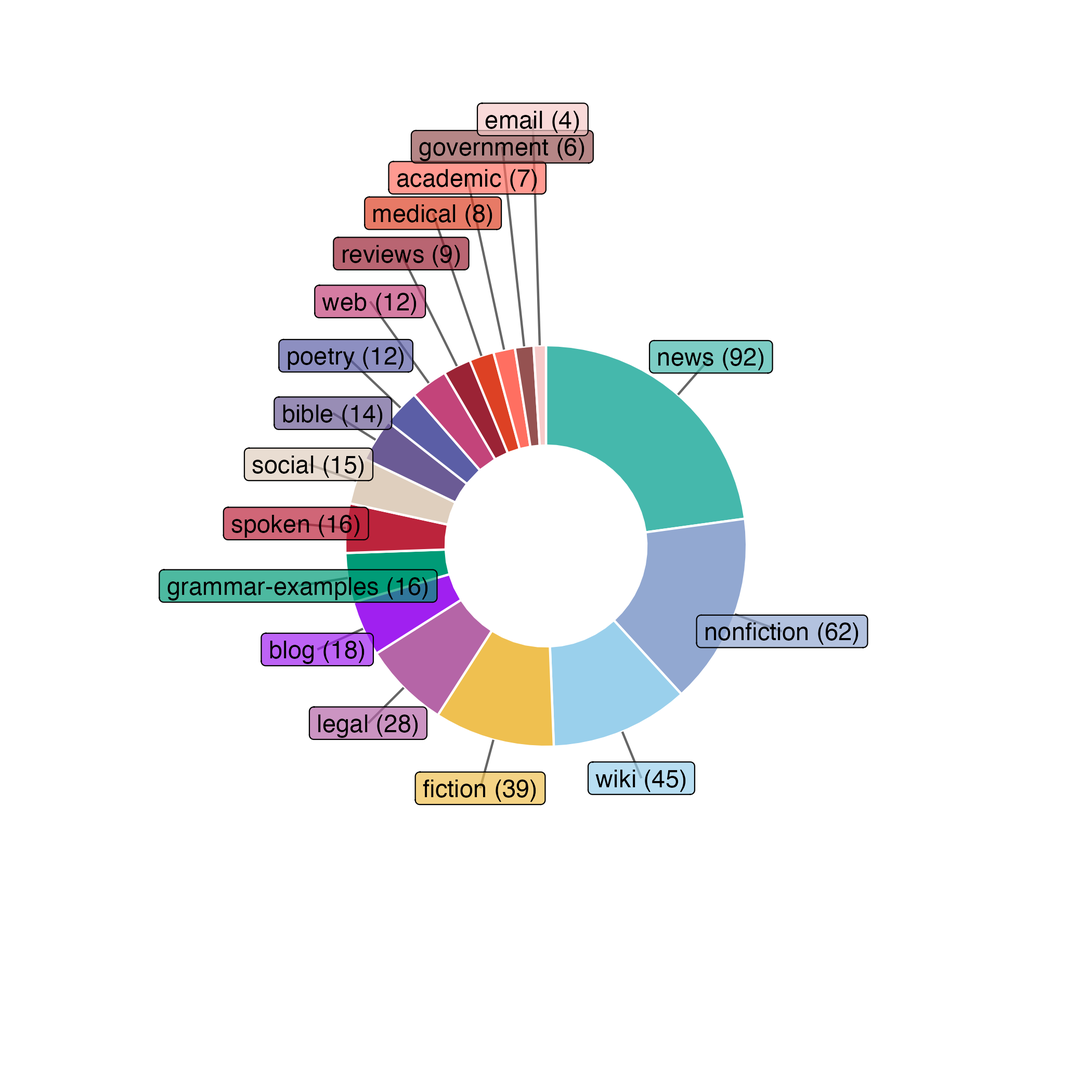
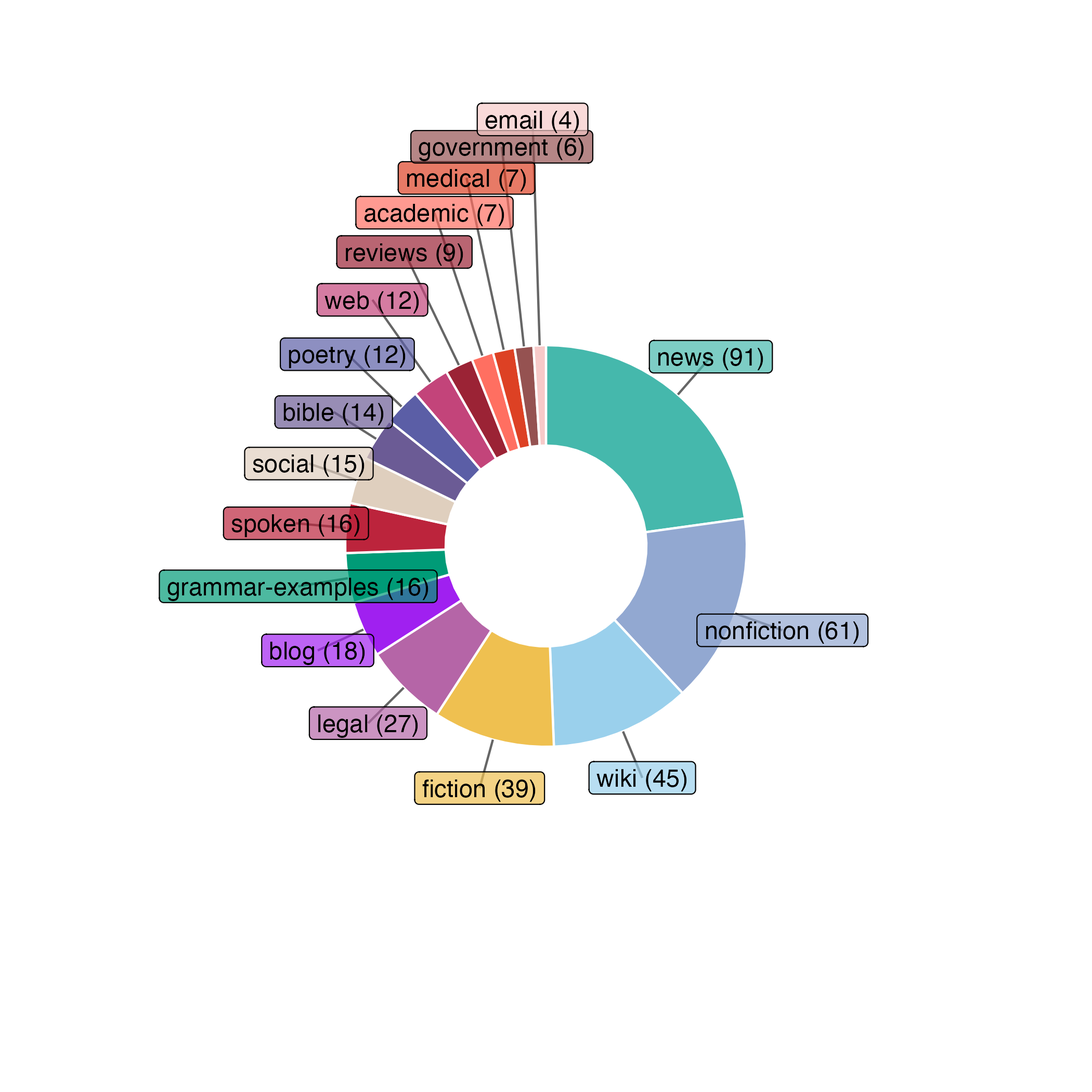
Updates from Overleaf

diff --git a/latex/main_new.tex b/latex/main_new.tex
@@ -288,7 +288,7 @@ Such distributional asymmetries suggest that usage-based measures provide a comp
 \section{Study outline}\label{sec:studyOutline}
 We aim to quantify one aspect of language complexity by studying how much information languages typically encode morphologically in usage.
 An increase in morphological information can be understood as an increase in the informational commitments made explicitly in grammatical form. %, and thus as an increase in one facet of language complexity in the sense of absolute complexity.
-Our metric, described in section \ref{ours_overview} and defined precisely in appendix \ref{sec:appendix_ours}, captures the amount of information carried by morphological features across approximately 70 languages spanning 158 datasets from the Universal Dependencies corpora collection v2.14 (UD) \citep{UD_2.14}.
+Our metric, described in section \ref{ours_overview} and defined precisely in appendix \ref{sec:appendix_ours}, captures the amount of information carried by morphological features across approximately 70 languages spanning 157 datasets from the Universal Dependencies corpora collection v2.14 (UD) \citep{UD_2.14}.
 %Annotated corpora yield a measure of morphological information per language, which serves as a proxy for speaker difficulty, which is one aspect of language complexity.
 
 %Words in any language can be grouped according to their lemma. 
@@ -657,7 +657,7 @@ We also compare to other metrics external to our study:
 
 
 \subsection{Comparison: Ç\&R's MFH and ours}
-
+\label{sec:CR_comparison}
 
 %An in-depth comparison of our metric with Ç\&R's MFH, including justifications for each aspect in which our measure differs from theirs, can be found in appendix 
 %\ref{sec:appendixComparison}.
@@ -759,7 +759,7 @@ The correlations are especially strong if we consider only the PUD-subset of UD 
 \end{figure}
 
 \FloatBarrier
-\noindent The two custom metrics that differ the most from each other in the comparison with all datasets are:
+\noindent The pair of custom metrics that differ the most from each other in the comparison with all datasets are\footnote{We note that there is another pair in the larger dataset (not PUD) that are as uncorrelated (0.85*): mean sum surprisal of features, aggregation = UPOS, core features vs mean sum surprisal of featstring, aggregation level = lemma, all features. As these pairs are very comparable and the pair discussed in the main text is also among the less correlated in the PUD dataset, we will focus on the other pair.}:
 \begin{itemize}
     \item Mean sum surprisal of features, aggregation level = UPOS, all features (Figure \ref{fig:map_sum_surprisal_morph_split_mean_upos_all_features})
     \item Mean sum surprisal of featstring, aggregation level = lemma, core features only (Figure \ref{fig:map_surprisal_per_morph_featstring_mean_lemma_core_features_only})
@@ -797,14 +797,19 @@ By contrast, UPOS-level aggregation pools across lemmas and preserves cross-lemm
 
 \FloatBarrier
 \subsection{Comparison with mean feature entropy}
-Ç\&R's MFH aggregates feature-value pairs in the entire dataset without regard to UPOS or lemma.
+\label{supplementary_section_comparison_MFH}
 An empirical comparison of the metric outcomes with our two representative metrics, absolute number of feature categories and Type-Token Ratio can be seen in Figure \ref{fig:SPLOM_metrics_external_CR}\footnote{Note that we implement Ç\&R's MFH slightly differently from the original version, see \ref{sec:appendix_ccoltekin} for more details.}.
-The correlations between our metrics and mean feature entropy are moderate to strong (>0.65).
-The first notable point of comparison is that mean feature entropy assigns zero to some datasets that our metrics assign appreciable values to.
-This is mainly due to differences in data-preprocessing (see appendix \ref{sec:appendixComparison}), here are several filters that Çöltekin \& Rama apply that we do not. 
-For example, tokens without morphological features, without lemmas and without a string for the token field are excluded from their analysis.
-We keep these in as they still contain morphological information, with certain thresholds and processing (see appendix \ref{sec:appendix_ours}). 
-This make a difference for example for isolating languages like Thai and Mandarin Chinese.
+The correlations between our metrics and mean feature entropy are moderate to strong (0.64*-0.82*).
+For further details of the conceptual differences between the metrics, see section \ref{sec:CR_comparison} and supplementary material \ref{sec:appendix_ccoltekin} and \ref{sec:appendixComparison}.
+
+Firstly, there were whole datasets and tokens within datasets for which it was not possible to assign a MFH-value but where we can assign morpho-surprisal values. 
+This is due to differences in data processing decisions, such as how to treat tokens with no morphological features or missing lemmas.
+For example, tokens without morphological features, without lemmas and/or without a string for the token field are excluded from their analysis.
+We keep these in as they still contain morphological information (see appendix \ref{sec:appendix_ours}). 
+This make a difference for example for isolating languages like Mandarin Chinese, as only tokens with morphology are taken into account for computing MFH.
+We can see the consequences of this if we compare Mandarin Chinese with Portuguese, which are commonly described as having little and moderate morphology respectively.
+If we rank UD-datsets by their MFH values, then Portuguese-PUD appears lower than Chinese-PUD (7 versus 9) - less information in the morphology. 
+This is not the case for our morpho-surprisal scores, where Chinese-PUD ranks lower than Portuguese-PUD as we would expect given common descriptions of their grammatical systems.
 Secondly, the first of our representative metrics (mean sum surprisal of features, aggregation level = UPOS, all features) assigns a wider range of values to the datasets, some of which are lower and some higher than mean feature entropy.
 This is because our UPOS-based measure covers a wider range of values than does mean feature entropy (see Figure \ref{fig:boxPlotsMetrics} in appendix \ref{subsec:appendixConsequences}), giving a more fine-grained measure of morphological complexity.
 For more information on the differences between our two approaches methodologically, see appendix \ref{sec:appendixComparison}.
@@ -832,8 +837,7 @@ We also include TTR and number of feature categories.
 The correlations between our metrics and the Grambank metrics are not significant(Figure \ref{fig:SPLOM_metrics_external_grambank_all}).
 %Only with the PUD datasets do we see a strong correlation, between one of our representative custom metrics and the Grambank Fusion measure, though these are generated by a relatively small sample of only 16 datasets (Figure \ref{fig:SPLOM_metrics_external_grambank_PUD}).
 %Furthermore, when we control for multiple comparisons (Table \ref{tab:p_values_adjusted_grambank}, appendix \ref{subsec:adjustedPValues}) all significant relationships disappear.
-
-We note also that Ç\&R's MFH also does not correlate significnatly with either of the two Grambank metrics.
+We note also that Ç\&R's MFH also does not correlate significantly with either of the two Grambank metrics.
 
 This lack of correlation highlights the distinctiveness of corpus-based analyses of complexity: insofar as our range of metrics captures something real, it appears to be something that shows up in feature frequencies, rather than the rules describing the possibility space of a language's grammar.
 %The facets of language complexity discussed earlier are sensitive not just to grammar but to usage, indicating the relevance of corpora for quantifying complexity.
@@ -849,6 +853,78 @@ This lack of correlation highlights the distinctiveness of corpus-based analyses
     \caption{Comparison with Grambank metrics (UD-dataset metrics averaged over language.}
     \label{fig:SPLOM_metrics_external_grambank}
 \end{figure}
+
+
+\FloatBarrier
+\section{Limitations}\label{sec:limitations}
+
+\subsection{Dummy feature assignment at the UPOS level}
+
+In order to account for the fact that a lack of marking can carry morphological information, we assign `dummy' features to tokens based on certain rules.
+Unfortunately, when aggregating at the UPOS level this can lead to dummy features being assigned to tokens that intuitively ought not receive them.
+That's because UPOS is a broad church: different subgroups of token within the same part-of-speech may be associated with very different features.
+In such a case we would assign to all members of one subgroup dummy values of features that belong properly to another.
+
+For example, tokens of the lemma `the' in the corpus UD\_English-GENTLE when processed at aggregation level UPOS for core features only get the following feature values:
+
+\begin{itemize}
+    \item Definite=Def
+    \item Degree=unassigned
+    \item Number=unassigned
+    \item Polarity=unassigned
+    \item PronType=Art
+\end{itemize}
+
+`Def' and `Art' mark `the' as the definite article.
+But it intuitively makes no sense to describe `the' as carrying information about, say, Polarity.
+The token receives this dummy feature because another token of the same UPOS -- in this case, `no' -- has a determinate value for Polarity -- in this case, `Neg'.
+Since some determiners are explicitly marked for polarity and others aren't, in order to quantify the amount of information conveyed about polarity on encountering a determiner we must capture the distinction with this unassigned dummy feature.
+
+The good news is that the information quantity contributed to `the' by Polarity is very small.
+Vastly more determiners have `unassigned' than `Neg' for Polarity (1165 vs 35).
+All these non-marking determiners therefore see a very small informational contribution: it's unsurprising when you encounter a determiner without Polarity.
+And when `no' is encountered, the negative Polarity is much more surprising and contributes more significantly to that token's information quantity.
+It might be objected that the negativity conveyed by the token `no' is in the semantics rather than morphologically, and thus our metric is assigning information to morphology what properly belongs to the bare meaning of the word.
+Insofar as this is true, it is a question of the tagging conventions being enforced more rigorously.
+Polarity is listed as an `Inflectional feature' in the UD documentation.
+If it is being used to flag semantic information, we would consider that an incorrect usage of the field.
+We have made no attempt to correct what might be seen as mistakes in the treebanks themselves: we have only established a workflow designed to use correctly formatted treebanks to estimate morphological information quantities.
+Errors or infelicities in the data should be fixed upstream, not in our workflow itself.
+
+Given the foregoing considerations, one might think that UPOS is too high a level at which to aggregate.
+Fortunately, some treebanks offer a more fine-grained categorisation of tokens between the level of lemma and UPOS.
+Some corpora use the XPOS field to record more fine-grained classifications of part-of-speech. 
+UD\_English-GENTLE seems to do it; though the documentation doesn't say exactly what guidelines they followed, it appears similar to that of UD\_English-ESLSpok whose documentation explicitly cites the Penn Treebank Tagset guidelines.
+Aggregating at XPOS would ameliorate some of the overeager dummy feature assignment that happens at the UPOS level.
+However, it wouldn't change the result of the example we've just looked at.
+Both `no' and `the' get an XPOS of DT in UD\_English-GENTLE, so they would still receive each other's features as dummy values when aggregating at that level.
+Furthermore, not all treebanks use the XPOS option, and those that do don't all use it in the same way.
+So this potential improvement would have to be looked at carefully in future developments of the current metric.
+
+\begin{itemize}
+    \item (Do we have an idea how many of our corpora this would work for?)
+\end{itemize}
+
+In sum, dummy feature assignment at the UPOS level can lead to unintuitive attribution of morphological features to tokens.
+Our basic position is that information can be carried by the absence of morphological marking, and that is what dummy assignment is designed to capture.
+Cases where this is not so might include semantic information being illicitly attributed to morphological features.
+This is a problem for the treebank maintainers, and not something to be fixed in our workflow.
+We take it on faith that the features intended to capture morphological aspects of tokens do so.
+A more fine-grained aggregation option exists at the XPOS level for some treebanks.
+We leave to future work the possibly of estimating morphological information when aggregating at this level.
+
+\subsection{Artificial lemmas}
+
+\begin{itemize}
+    \item Artificial lemmas (Rev ID 8): these would impact the lemma/token ratio in an undesirable way.
+\end{itemize}
+
+\subsection{Inconsistent annotation standards across corpora}
+
+\begin{itemize}
+    \item Aggregation across corpora with different annotation standards (Rev ID 15): negative affects the comparability of our metric because features may be annotated differently.
+    \item Emojis, percentages, etc.
+\end{itemize}
 
 \FloatBarrier
 \section{Discussion \& conclusion}\label{sec:discussion}
@@ -994,10 +1070,15 @@ This average is then an estimate of the `overall' entropy measure for the datase
 
 \paragraph{Implementation in this project}
 For comparison, we re-ran the code for Ç\&R's MFH on the same dataset as our analysis. 
-To make the outcomes more comparable, we introduced a modification of their procedure. 
-We did not do the bootstrapping sampling (sample sentences with replacement until you reach a given token target) - instead we ran the analysis on the exact same datasets as ours - i.e all tokens in the 173 UD datasets with more than 13,000 tokens (excluding tokens with UPOS PUNCT or X). 
-We copied the python scripts graciously provide by Çağrı Çöltekin and Taraka Rama at \href{https://github.com/coltekin/mcomplexity/}{https://github.com/coltekin/mcomplexity/}, made a few small modifications and incorporated the modified scripts into our project's codebase. 
-Removing bootstrapping also included removing the calling of sample\_nodes in get\_mfh, which had the consequence that some of the filtering in sample\_nodes happen in get\_mfh instead.
+To make the outcomes more comparable, we introduced a small set of modifications of their procedure. 
+We did not do the bootstrapping sampling (sample sentences with replacement until you reach a given token target) - instead we ran the analysis on the exact same datasets as ours - i.e all datasets in the 173 UD datasets with more than 13,000 tokens (excluding tokens with UPOS PUNCT or X). 
+Ç\&R MFH procedure was originally applied to a specific set of 63 UD datasets where the smallest number of tokens was approximately 40,000 \citet[32]{ccoltekin2023complexity}. 
+In this study, we work with a larger number of datasets where some have fewer tokens (>13,000).
+Note that the datasets serving as the input have more than 13,000 tokens, but filters in the Ç\&R-procedure eliminate further tokens.
+In three cases \footnote{English-GUMReddit, Thai-PUD and Faroese-FarPaHC} the datasets contained 0 tokens once the filters in Ç\&R's procedure were applied because the tokens lacked lemmas. 
+Technically the outcome for these three datasets would be a MFH value of 0, but we treated these instead as missing.
+We copied the python scripts graciously provide by Çağrı Çöltekin and Taraka Rama at \url{https://github.com/coltekin/mcomplexity/}, made a few small modifications and incorporated the modified scripts into our project's codebase. 
+Removing bootstrapping also included removing the calling of the function sample\_nodes in get\_mfh, which had the consequence that some of the filtering in sample\_nodes happen in get\_mfh instead.
 
 The python scripts that calculate Ç\&R's MFH take the same input as the R-scripts that calculate our metrics. 
 See Figure \ref{fig:data_processing_flowchart} for a schematic overview of the data flow.
@@ -1008,11 +1089,12 @@ The full procedure of our metric is as follows:
 \begin{enumerate}
 \item Exclude multilingual datasets
 \item Collapse the files of each UD dataset (e.g. dev, test and train) to one table with one token per row (including multiword-tokens, component word tokens and empty node tokens)
-\item Remove punctuation (UPOS=`PUNCT') and unanalysable tokens (UPOS=`X')\footnote{For more on UPOS X, please see \href{https://universaldependencies.org/u/pos/X.html}{https://universaldependencies.org/u/pos/X.html}}.
+\item Remove tokens that are punctuation (UPOS=`PUNCT') and unanalysable tokens (UPOS=`X')\footnote{For more on UPOS X, please see \url{https://universaldependencies.org/u/pos/X.html}}.
 \item Remove datasets with less than 13,000 tokens. 13,000 was chosen as a cut-off as this let us keep all PUD-datasets with more than 2 feature categories defined.
 \item Remove empty nodes. UD allows the insertion of tokens that are not present in the surface sentence in order to facilitate certain kinds of syntactic analysis. For example, the insertion of ``likes'' between ``Bill'' and ``tea'' in the sentence ``Sue likes coffee and Bill tea''. We drop these tokens from our analysis as we want to analyse the surface form as closely as possible. 
-%\footnote{For more details on empty nodes in UD, see \href{https://universaldependencies.org/format.html?utm_source=chatgpt.com#words-tokens-and-empty-nodes}{https://universaldependencies.org/format.html?utm_source=chatgpt.com#words-tokens-and-empty-nodes}}
-\item Resolve multi-word tokens. Some datasets will split tokens which are taken as representing multiple words into separate tokens. For example contractions such as: ``don't'' in English could be split into ``do'' and ``n't''. For UD-datasets, words that belong to a multi-word token (e.g. ``do'' and ``n't'') can be included as separate tokens and marked for syntactic dependencies, part-of-speech (UPOS), lemma and morphological features. The multiword also appears as a token, but without UPOS, lemma or morphological features. In this project, we want to analyse the surface forms - therefore we retain the multiword and remove the component words. We assign the multiwork token the morphological features and UPOS of the component words (e.g. "AUX\_PART). This may also be beneficial for comparability as multi-words may represent highly grammaticalised items that may be treated differently across datasets (sometimes split, sometimes not). By not analysing them further, we may be avoiding issues of uneven level of granularity of analysis.\footnote{For more details on multi-word tokens in UD, see UD documentation: \href{https://universaldependencies.org/format.html\#words-tokens-and-empty-nodes}{https://universaldependencies.org/format.html\#words-tokens-and-empty-nodes}.}
+\footnote{For more details on empty nodes in UD, see \url{https://universaldependencies.org/format.html}}
+\item Make all tokens lower-case
+\item Resolve multi-word tokens. Some datasets will split tokens which are taken as representing multiple syntactic words into separate tokens. For example contractions such as: ``don't'' in English could be split into ``do'' and ``n't''. For UD-datasets, words that belong to a multi-word token (e.g. ``do'' and ``n't'') can be included as separate tokens and marked for syntactic dependencies, part-of-speech (UPOS), lemma and morphological features. The multiword also appears as a token, but without UPOS, lemma or morphological features. In this project, we want to analyse the surface forms as they appear in writing/speech transcription - therefore we retain the multiword and remove the component syntactic words. We assign the multiwork token the morphological features and UPOS of the component words (e.g. "AUX\_PART). This may also be beneficial for comparability as multi-words may represent highly grammaticalised items that may be treated differently across datasets (sometimes split, sometimes not). By not analysing them further, we may be avoiding issues of uneven level of granularity of analysis.\footnote{For more details on multi-word tokens in UD, see UD documentation: \url{https://universaldependencies.org/format.html}.}
 \item Missing lemmas are replaced by the token.  There is variation in how datasets of UD treat certain tokens in terms of defining or not defining a lemma. For example, many proper nouns (PROPN) or adpositions (ADP) will lack a lemma annotation. Some datasets, like Arabic-NYUAD, leave the lemma field empty for most tokens where UPOS is ADP or PROPN. Conversely, in Greek-GUD all items of the same UPOS values have a defined lemma (majority of the time identical to the token). To normalise for our comparison, we replace missing lemmas with the content in the token field.
 \item Define lemmas as a combination of lemma + UPOS, to ensure that lemmas that are spelled the same but belong to different UPOS can be reliably distinguished. \textit{Example:} the noun ``mark'' and the verb ``mark'' in English-PUD are both annotated as belonging to the lemma ``mark''. By combinig lemma with UPOS, we can distinguish these as ``mark\_NOUN'' and ``mark\_VERB''.
 \item Split the tokens' morphological features into a list (e.g. Table \ref{tab:unassigned_ex_SPLIT} in appendix lists the individual features for the sample shown in Table \ref{tab:unassigned_ex})\footnote{Some tokens have been given more than one feature value for the same feature category. This is allowable within the UD-framework, though the coordinators note that such multi-values should be used sparingly. For example, the adjective ``{\dolousfont ἀ}{\Timesfont όρατος}'' in the Ancient Greek PTNK-dataset is assigned ``Gender=Fem,Masc''. We are treating instances like these as a case of the feature value being ``Fem,Masc'' and not a case of both ``Gender=Fem'' and ``Gender=Masc''.}
@@ -1026,8 +1108,8 @@ The full procedure of our metric is as follows:
 \item Calculate the total `surprisal of a token' by summing the surprisals of all its features (including ``dummy'' features)
 \item Mean surprisal per token is the average of this total across all tokens in the dataset.
 \item Calculate other relevant counts, such as number of feature categories in total for the dataset, TTR etc.
-\item Remove datasets where there are 2 or fewer feature categories defined (in total) as these appear not representative of the languages.
-\item If there are 2 or fewer unique types in the dataset, set TTR, LTR, surprisal per token and number of types to missing as these appear not representative of the languages. \footnote{There are four datasets included in our study that do not contain regular tokens. They are: Arabic-NYUAD, English-GUMReddit, Japanese-BCCWJ and
+\item Remove datasets where there are 2 or fewer feature categories defined (in total) as these appear not representative of the languages. \footnote{As this step happens later on in the workflow, this set includes the feature category ``unassigned'' but Abbr, Typo and Foreign are excluded. All but one of the 14 datasets that are excluded here only contain ``unassigned'', Abbr, Typo and Foreign as feature categories. The exception is Galician-CTG which contains the feature category ``Polarity'' for 120 tokens.}
+\item If there are 2 or fewer unique types in the dataset, set TTR, LTR, surprisal per token and number of types to missing as these appear not representative of the languages. \footnote{There are four datasets included in our study that do not contain regular tokens and more than 13,000 tokens. They are: Arabic-NYUAD, English-GUMReddit, Japanese-BCCWJ and
 Japanese-BCCWJLUW. The tokens are annotated for dependencies and features, but the tokens themselves are missing or very irregular (types >=2). The lemma annotation is also irregular.} 
 % \item Calculate the mean surprisal in the dataset by summing the surprisals and dividing by the number of tokens.
 \end{enumerate}
@@ -1172,23 +1254,27 @@ The formula describing our measure is therefore $\Sigma_i p_i \left( \Sigma_{j_i
 However, some tokens have missing lemma because their lemma is understood to be identical to the token or for other reasons specific to the dataset (e.g. lemmatization efforts focussed on content words)  
 For example, this is most likely the case in many instances in Arabic-NYUAD where the lemma field is empty for most tokens where the part-of-speech is adposition (ADP) or proper names (PROPN). 
 Conversely, in Greek-GUD all items of the same UPOS values have a defined lemma (majority of the time identical to the token). 
-We treat tokens with missing lemmas as genuine tokens. 
-To make comparison possible, we replace missing lemmas with the content in the token field.
+In our analysis, we treat tokens with missing lemmas as genuine tokens. 
+We replace missing lemmas with the content in the token field in order to make it possible to include these in the analysis.
+There are three datasets \footnote{English-GUMReddit, Thai-PUD and Faroese-FarPaHC} which lack lemmas altogether. 
+For Ç\&R MFH-procedure, these tokens are all filtered out leaving 0 tokens and a MFH value of 0.
+We treated the MFH value for these three datasets as missing instead of as 0.
 
-There are also datasets with missing values for the actual token field, but where there is annotation for morphological features and other annotations. This is for example the case with the dataset discussed earlier; Arabic-NYUAD. 
-We believe these tokens still contain valuable information for the computation of morphological complexity and hence include them.
+There are also datasets with missing values for the actual token field, but where there is annotation for morphological features and other annotations. 
+This is for example the case with the dataset discussed earlier; Arabic-NYUAD. 
+We believe these datasets still contain valuable information for the computation of morphological complexity and hence include them.
 We do however exclude them from some analysis, such as TTR.
-If tokens \emph{and} lemmas are both missing then the lemma category becomes just the UPOS (because we merge lemmas with UPOS, for example to disinguish between mark (VERB) and mark (NOUN); eg. `\_VERB'.
+If tokens \emph{and} lemmas are both missing then the lemma category becomes just the UPOS (because we merge lemmas with UPOS, for example to distinguish between mark (VERB) and mark (NOUN); eg. `\_VERB'.
 Thankfully, this only occurs for three datasets: English-GUMReddit, Japanese-BCCWJ and Japanese-BCCWJLUW. The Japanese datasets are excluded from further analysis regardless because of suspiciously low number of feature categories marked.
 For English-GUMReddit, aggregation level UPOS / lemma amounts to the same.
 
 Lastly, tokens which lack morphological features totally are implicitly left out of the analysis of Ç\&R.
-After assigning ``dummy'' feature values  (e.g. `NumType=unassigned') given features of other tokens in the same UPOS/lemma, we insert a ``dummy'' feature (`unassigned=unassigned') for tokens that still lack features.
+However, for our metric, after assigning ``dummy'' feature values  (e.g. `NumType=unassigned') given features of other tokens in the same UPOS/lemma, we insert a ``dummy'' feature (`unassigned=unassigned') for tokens that still lack features.
 This makes it possible for those tokens to still be included when calculating averages.
 This is particularly the case for isolating languages.
-For example, in Chinese-GSD 18\% of tokens are marked with the feature unassigned=unassigned (aggregation level = UPOS).
+For example, in Chinese-GSD 18\% of tokens are marked with the feature unassigned=unassigned in our procedure (aggregation level = UPOS).
 
-As a result of these data processing decisions, there are datasets for which Ç\&R's morphological feature entropy is calculated as zero but which have appreciable complexity by our metric. 
+As a result of these and other data processing decisions, there are datasets for which Ç\&R's morphological feature entropy-procedure cannot be applied at all or cannot be applied to all tokens in the dataset but where our approach functions. 
 %Examples of these are EXAMPLES, as can be seen in the results SPLOMS (REF TO FIGURES).
 
 \subsection{Ç\&R remove certain numerals; we don't} \label{appedix:differences_remove_numerals}
@@ -1449,8 +1535,8 @@ Another comparability issue is related to \textbf{genre}, as the datasets of UD 
 For example, Beja-NSC is based on linguistic fieldworker Martine Vanhove's corpus which features transcribed spoken stories, whereas the UD dataset Czech-Poetry contains, as the name suggests, samples of Czech 19th-century poetry. 
 Ukrainian-ID consists of, as many datasets in UD do, a blend of fiction, news, opinion pieces, Wikipedia articles, legal documents, letters, posts and comments. 
 We may expect that genre affects the structure and lexicon of the datasets, with poems exhibiting more experimental word order and legal documents more technical jargon. 
-Figure \ref{fig:genre_doughnut} shows a frequency doughnut-plot of genre tags for the 158 datasets included in this study.
-``News'' is the most common genre tag (n=102), with nonfiction coming second (n=66).
+Figure \ref{fig:genre_doughnut} shows a frequency doughnut-plot of genre tags for the 157 datasets included in this study.
+``News'' is the most common genre tag (n=91), with nonfiction coming second (n=61).
 
 \begin{figure}
     \centering
@@ -1510,11 +1596,23 @@ Table \ref{r_package_table} shows all R-packages used and their versions. The li
 \input{used_packages_table.tex}
 
 \section{Notes on Spearman rank correlation tests}\label{appendix:spearman}
-The Spearman correlation test evaluates the strength and significance of the relationship between the rank of two variables
+\label{appendix:rank}
+The Spearman correlation test evaluates the strength and significance of the relationship between the rank of two variables. 
+Fig \ref{fig:rank_heat_plot} shows the rank of different dataset for the relevant variables\footnote{Note that for the Fusion and Informativity metric, the values are tied to glottocodes rather than UD-dataset. For this figure, if there is more than one dataset per glottocode the values are duplciated. For the correlation tests, we normalise to glottocodes when comparing to the Grambank metrics.}.
+For a larger version of the figure, see the accompanying code and data.
 The strength is expressed by a coefficient whose value lies between -1 (indicating negative correlation) and 1 (positive correlation). 
 An absolute value of 1 indicates a perfect relationship in which the two variables are fully matched. 
-Significance is measured via traditional p-values.
-For some of our variables, there were values tied at the same rank. This makes it impossible to calculate  exact p-values for Spearman's rank correlation coefficient in the same way as when there are no ties. In such cases, we use asymptotic $t$ approximation as implemented in the base R-package stat's function cor.test(method = ``spearman'', exact = FALSE).
+Significance is measured via traditional p-values, using 0.05 as a cut-off.
+For some of our variables, there were values tied at the same rank. 
+This makes it impossible to calculate  exact p-values for Spearman's rank correlation coefficient in the same way as when there are no ties. 
+In such cases, we use asymptotic $t$ approximation as implemented in the base R-package stat's function cor.test(method = ``spearman'', exact = FALSE).
+
+\begin{figure}
+    \centering
+    \includegraphics[width=0.50\linewidth]{latex/graphics/rank_heat_plot.png}
+    \caption{Rank and values for our two representative morpho-surprisal metrics, MFH, Fusion and Informativity. The datasets are sorted by the first morpho-surprisal metric.}
+    \label{fig:rank_heat_plot}
+\end{figure}
 
 %\section{Further figures and #tables}\label{sec:appendixFurtherFigures}
 
@@ -1522,9 +1620,9 @@ For some of our variables, there were values tied at the same rank. This makes i
 \FloatBarrier
 \section{Adjusted p-values for multiple comparisons}\label{subsec:adjustedPValues}
 To address potential multiple-comparisons concerns, we adjust p-values using the Holm–Bonferroni method \citep{holm_simple_1979} for correlation tests involving external complexity measures, specifically in Figures \ref{fig:SPLOM_metrics_external_CR} (comparisons with Ç\&R’s MFH) and \ref{fig:SPLOM_metrics_external_grambank} (comparisons with Grambank Fusion and Informativity).
-Many other correlation tests in this study are descriptive in nature and/or concern variables that are closely related by construction, for example different variants of the same morphosurprisal metric (UPOS/lemma, core/ all features, feat/featstring). 
+Many other correlation tests in this study are descriptive in nature and/or concern variables that are closely related by construction, for example different variants of the same morpho-surprisal metric (UPOS/lemma, core/ all features, feat/featstring). 
 In such cases, the correlations serve to assess internal coherence and contextualise the measures rather than to test independent hypotheses, and concerns about multiple comparisons are therefore less relevant.
-For this reason, we do not adjust p-values for correlations between different variants of morphosurprisal, nor for descriptive correlations reported in Figures \ref{fig:SPLOM_metrics_other} and \ref{fig:SPLOM_metrics_other_PUD}. 
+For this reason, we do not adjust p-values for correlations between different variants of morpho-surprisal, nor for descriptive correlations reported in Figures \ref{fig:SPLOM_metrics_other} and \ref{fig:SPLOM_metrics_other_PUD}. 
 In contrast, p-value adjustment is applied to correlations involving external or theoretically distinct measures—including Ç\&R’s MFH, Grambank metrics and corpus-level statistics such as TTR, and number of feature categories—where the interpretation of individual significance tests would otherwise be more prone to multiple-comparisons concerns.
 
 \begin{table}[ht]
@@ -1535,14 +1633,14 @@ In contrast, p-value adjustment is applied to correlations involving external or
 \toprule
 	\textbf{Correlate 1}	&	\textbf{Correlate 2}	& \textbf{p-value (unadjusted)}    &	\textbf{p-value (adjusted)}	\\
     \midrule
-morpho-surprisal /   feat /   UPOS /   all features	&	TTR	&	0.000004	&	0.000015	\\ \midrule
+morpho-surprisal /   feat /   UPOS /   all features	&	TTR	&	0.000005	&	0.000019	\\ \midrule
 morpho-surprisal /   feat /   UPOS /   all features	&	\# Feat cat /   all features	&	0.000000	&	0.000000	\\ \midrule
 morpho-surprisal /   feat /   UPOS /   all features	&	Ç\&R's MFH (slightly modified version)	&	0.000000	&	0.000000	\\ \midrule
-morpho-surprisal /   featstring  /    lemma /   core features only	&	TTR	&	0.092376	&	0.092376	\\ \midrule
+morpho-surprisal /   featstring  /    lemma /   core features only	&	TTR	&	0.103477	&	0.103477	\\ \midrule
 morpho-surprisal /   featstring  /    lemma /   core features only	&	\# Feat cat /   all features	&	0.000000	&	0.000000	\\ \midrule
 morpho-surprisal /   featstring  /    lemma /   core features only	&	Ç\&R's MFH (slightly modified version)	&	0.000000	&	0.000000	\\ \midrule
-TTR	&	\# Feat cat /   all features	&	0.009386	&	0.018772	\\ \midrule
-TTR	&	Ç\&R's MFH (slightly modified version)	&	0.002464	&	0.007393	\\ \bottomrule
+TTR	&	\# Feat cat /   all features	&	0.007944	&	0.015888	\\ \midrule
+TTR	&	Ç\&R's MFH (slightly modified version)	&	0.004723	&	0.014168	\\ \bottomrule
     
 \end{tabular}
 \end{table}
@@ -1556,14 +1654,14 @@ TTR	&	Ç\&R's MFH (slightly modified version)	&	0.002464	&	0.007393	\\ \bottomru
 \toprule
 	\textbf{Correlate 1}	&	\textbf{Correlate 2}	& \textbf{p-value (unadjusted)}    &	\textbf{p-value (adjusted)}	\\
     \midrule
-morpho-surprisal /   feat /   UPOS /   all features	&	TTR	&	0.0009436	&	0.0056614	\\ \midrule
-morpho-surprisal /   feat /   UPOS /   all features&	\# Feat cat /   all features	&	0.0058743	&	0.0293716	\\ \midrule
-morpho-surprisal /   feat /   UPOS /   all features	&	Ç\&R's MFH (slightly modified version)	&	0.0000038	&	0.0000302	\\ \midrule
-morpho-surprisal /   featstring  /    lemma /   core features only	&	TTR	&	0.0342273	&	0.0684545	\\ \midrule
-morpho-surprisal /   featstring  /    lemma /   core features only&	\# Feat cat /   all features	&	0.0117601	&	0.0352804	\\ \midrule
-morpho-surprisal /   featstring  /    lemma /   core features only	&	Ç\&R's MFH (slightly modified version)	&	0.0007564	&	0.0052948	\\ \midrule
-TTR&	\# Feat cat /   all features	&	0.1577710	&	0.1577710	\\ \midrule
-TTR	&	Ç\&R's MFH (slightly modified version)	&	0.0074797	&	0.0299186	\\ \bottomrule
+morpho-surprisal /   feat /   UPOS /   all features	&	TTR	&	0.000944	&	0.006605	\\ \midrule
+morpho-surprisal /   feat /   UPOS /   all features&	\# Feat cat /   all features	&	0.001600	&	0.009599	\\ \midrule
+morpho-surprisal /   feat /   UPOS /   all features	&	Ç\&R's MFH (slightly modified version)	&	0.000024	&	0.000192	\\ \midrule
+morpho-surprisal /   featstring  /    lemma /   core features only	&	TTR	&	0.034227	&	0.078336	\\ \midrule
+morpho-surprisal /   featstring  /    lemma /   core features only&	\# Feat cat /   all features	&	0.004494	&	0.017973	\\ \midrule
+morpho-surprisal /   featstring  /    lemma /   core features only	&	Ç\&R's MFH (slightly modified version)	&	0.003253	&	0.016263	\\ \midrule
+TTR&	\# Feat cat /   all features	&	0.107420	&	0.107420	\\ \midrule
+TTR	&	Ç\&R's MFH (slightly modified version)	&	0.026112	&	0.078336	\\ \bottomrule
 \end{tabular}
 \end{table}
 
@@ -1576,16 +1674,16 @@ TTR	&	Ç\&R's MFH (slightly modified version)	&	0.0074797	&	0.0299186	\\ \bottom
     \begin{tabular}{p{3.2cm}p{3.2cm}p{2.8cm}p{2.8cm}}
 \toprule
 	\textbf{Correlate 1}	&	\textbf{Correlate 2}	& \textbf{p-value (unadjusted)}    &	\textbf{p-value (adjusted)}	\\\midrule
-    morpho-surprisal /   feat /   UPOS /   all features	&	Fusion (Grambank)	&	0.0454018	&	0.4086164	\\ \midrule
-morpho-surprisal /   feat /   UPOS /   all features	&	Informativity (Grambank)	&	0.3051772	&	1.0000000	\\ \midrule
-morpho-surprisal /   featstring  /    lemma /   core features only	&	Fusion (Grambank)	&	0.0073515	&	0.0735151	\\ \midrule
-morpho-surprisal /   featstring  /    lemma /   core features only	&	Informativity (Grambank)	&	0.5046589	&	1.0000000	\\ \midrule
-TTR	&	Fusion (Grambank)	&	0.7356503	&	1.0000000	\\ \midrule
-TTR	&	Informativity (Grambank)	&	0.3208506	&	1.0000000	\\ \midrule
-\# Feat cat /   all features	&	Fusion (Grambank)	&	0.3713876	&	1.0000000	\\ \midrule
-\# Feat cat /   all features	&	Informativity (Grambank)	&	0.7600773	&	1.0000000	\\ \midrule
-Ç\&R's MFH (slightly modified version)	&	Fusion (Grambank)	&	0.0510221	&	0.4086164	\\ \midrule
-Ç\&R's MFH (slightly modified version)	&	Informativity (Grambank)	&	0.7263391	&	1.0000000	\\ \bottomrule
+    morpho-surprisal /   feat /   UPOS /   all features	&	Fusion (Grambank)	&	0.037635	&	0.338711	\\ \midrule
+morpho-surprisal /   feat /   UPOS /   all features	&	Informativity (Grambank)	&	0.336824	&	1.0000000	\\ \midrule
+morpho-surprisal /   featstring  /    lemma /   core features only	&	Fusion (Grambank)	&	0.006206	&	0.062059	\\ \midrule
+morpho-surprisal /   featstring  /    lemma /   core features only	&	Informativity (Grambank)	&	0.449203	&	1.0000000	\\ \midrule
+TTR	&	Fusion (Grambank)	&	0.761930	&	1.0000000	\\ \midrule
+TTR	&	Informativity (Grambank)	&	0.377411	&	1.0000000	\\ \midrule
+\# Feat cat /   all features	&	Fusion (Grambank)	&	0.425756	&	1.0000000	\\ \midrule
+\# Feat cat /   all features	&	Informativity (Grambank)	&	0.938133	&	1.0000000	\\ \midrule
+Ç\&R's MFH (slightly modified version)	&	Fusion (Grambank)	&	0.093866	&	0.750925	\\ \midrule
+Ç\&R's MFH (slightly modified version)	&	Informativity (Grambank)	&	0.486198	&	1.0000000	\\ \bottomrule
     
 \end{tabular}
 \end{table}
@@ -1599,16 +1697,16 @@ TTR	&	Informativity (Grambank)	&	0.3208506	&	1.0000000	\\ \midrule
     \begin{tabular}{p{3.2cm}p{3.2cm}p{2.8cm}p{2.8cm}}
 \toprule
 	\textbf{Correlate 1}	&	\textbf{Correlate 2}	& \textbf{p-value (unadjusted)}    &	\textbf{p-value (adjusted)}	\\\midrule
-morpho-surprisal /   feat /   UPOS /   all features	&	Fusion (Grambank)	&	0.0127764	&	0.1277645	\\ \midrule
-morpho-surprisal /   feat /   UPOS /   all features	&	Informativity (Grambank)	&	0.6394502	&	1.0000000	\\ \midrule
-morpho-surprisal /   featstring  /    lemma /   core features only	&	Fusion (Grambank)	&	0.0609269	&	0.5483418	\\ \midrule
-morpho-surprisal /   featstring  /    lemma /   core features only	&	Informativity (Grambank)	&	0.5296882	&	1.0000000	\\ \midrule
-TTR	&	Fusion (Grambank)	&	0.3500252	&	1.0000000	\\ \midrule
-TTR	&	Informativity (Grambank)	&	0.8407923	&	1.0000000	\\ \midrule
-\# Feat cat /   all features	&	Fusion (Grambank)	&	0.3459624	&	1.0000000	\\ \midrule
-\# Feat cat /   all features	&	Informativity (Grambank)	&	0.7820834	&	1.0000000	\\ \midrule
-Ç\&R's MFH (slightly modified version)	&	Fusion (Grambank)	&	0.1099411	&	0.8795292	\\ \midrule
-Ç\&R's MFH (slightly modified version)	&	Informativity (Grambank)	&	0.2595480	&	1.0000000	\\ \midrule
+morpho-surprisal /   feat /   UPOS /   all features	&	Fusion (Grambank)	&	0.012776	&	0.127764	\\ \midrule
+morpho-surprisal /   feat /   UPOS /   all features	&	Informativity (Grambank)	&	0.639450	&	1.0000000	\\ \midrule
+morpho-surprisal /   featstring  /    lemma /   core features only	&	Fusion (Grambank)	&	0.060927	&	0.548342	\\ \midrule
+morpho-surprisal /   featstring  /    lemma /   core features only	&	Informativity (Grambank)	&	0.529688	&	1.0000000	\\ \midrule
+TTR	&	Fusion (Grambank)	&	0.350025	&	1.0000000	\\ \midrule
+TTR	&	Informativity (Grambank)	&	0.840792	&	1.0000000	\\ \midrule
+\# Feat cat /   all features	&	Fusion (Grambank)	&	0.389697	&	1.0000000	\\ \midrule
+\# Feat cat /   all features	&	Informativity (Grambank)	&	0.849674	&	1.0000000	\\ \midrule
+Ç\&R's MFH (slightly modified version)	&	Fusion (Grambank)	&	0.109941	&	0.879529	\\ \midrule
+Ç\&R's MFH (slightly modified version)	&	Informativity (Grambank)	&	0.259548	&	1.0000000	\\ \midrule
 
 \end{tabular}
 \end{table}
@@ -1694,12 +1792,13 @@ TTR	&	Informativity (Grambank)	&	0.8407923	&	1.0000000	\\ \midrule
 
 We compare our custom metrics to other metrics and statistics calculable from UD datasets in Figures \ref{fig:SPLOM_metrics_other} (all datasets) and \ref{fig:SPLOM_metrics_other_PUD} (PUD datasets only; ).
 In these figures, the two representatives from our set of custom metrics appear first, as the green and blue rows/columns at the upper left of the plot.
-As expected, the \textbf{mean number of features per token} correlates with both of our custom metrics: more features entails a lower frequency per feature, which translates directly to higher surprisal.
-We also see a moderate correlation between our UPOS-level metric and the \textbf{total number of feature categories} in the datasets. 
+As expected, the \textbf{mean number of features per token} correlates with both of our custom metrics..
+We also see a moderate correlation between our UPOS-level metric and the \textbf{total number of unique feature categories} in the datasets. 
 The overall pattern is similar for both the all-datasets and PUD-subset comparisons.
 One exception is the relationship between our UPOS-level metric and the type-token ratio (TTR) \& \# Types, which is weak when comparing across all datasets, but strong in the PUD subset. 
-PUD datasets are translational equivalents, meaning that statistics such as TTR/\# types are more likely to track relative morphological richness across datasets compared to other texts.
-%This suggests that genre has an impact on the variability of types in a dataset, underlining the need to use subsets such as PUD to ensure comparability.
+We also see in the PUD-datasets a stronger correlation between our two morpho-surprisal metrics and number of unique feature categories.
+PUD datasets are translational equivalents, meaning that statistics such as TTR/\# types and number of feature categories are more likely to track relative morphological richness across datasets compared to other texts.
+This suggests that genre has an impact on the variability of types in a dataset, underlining the need to use subsets such as PUD to ensure comparability.
 
 \begin{figure}
     \centering
